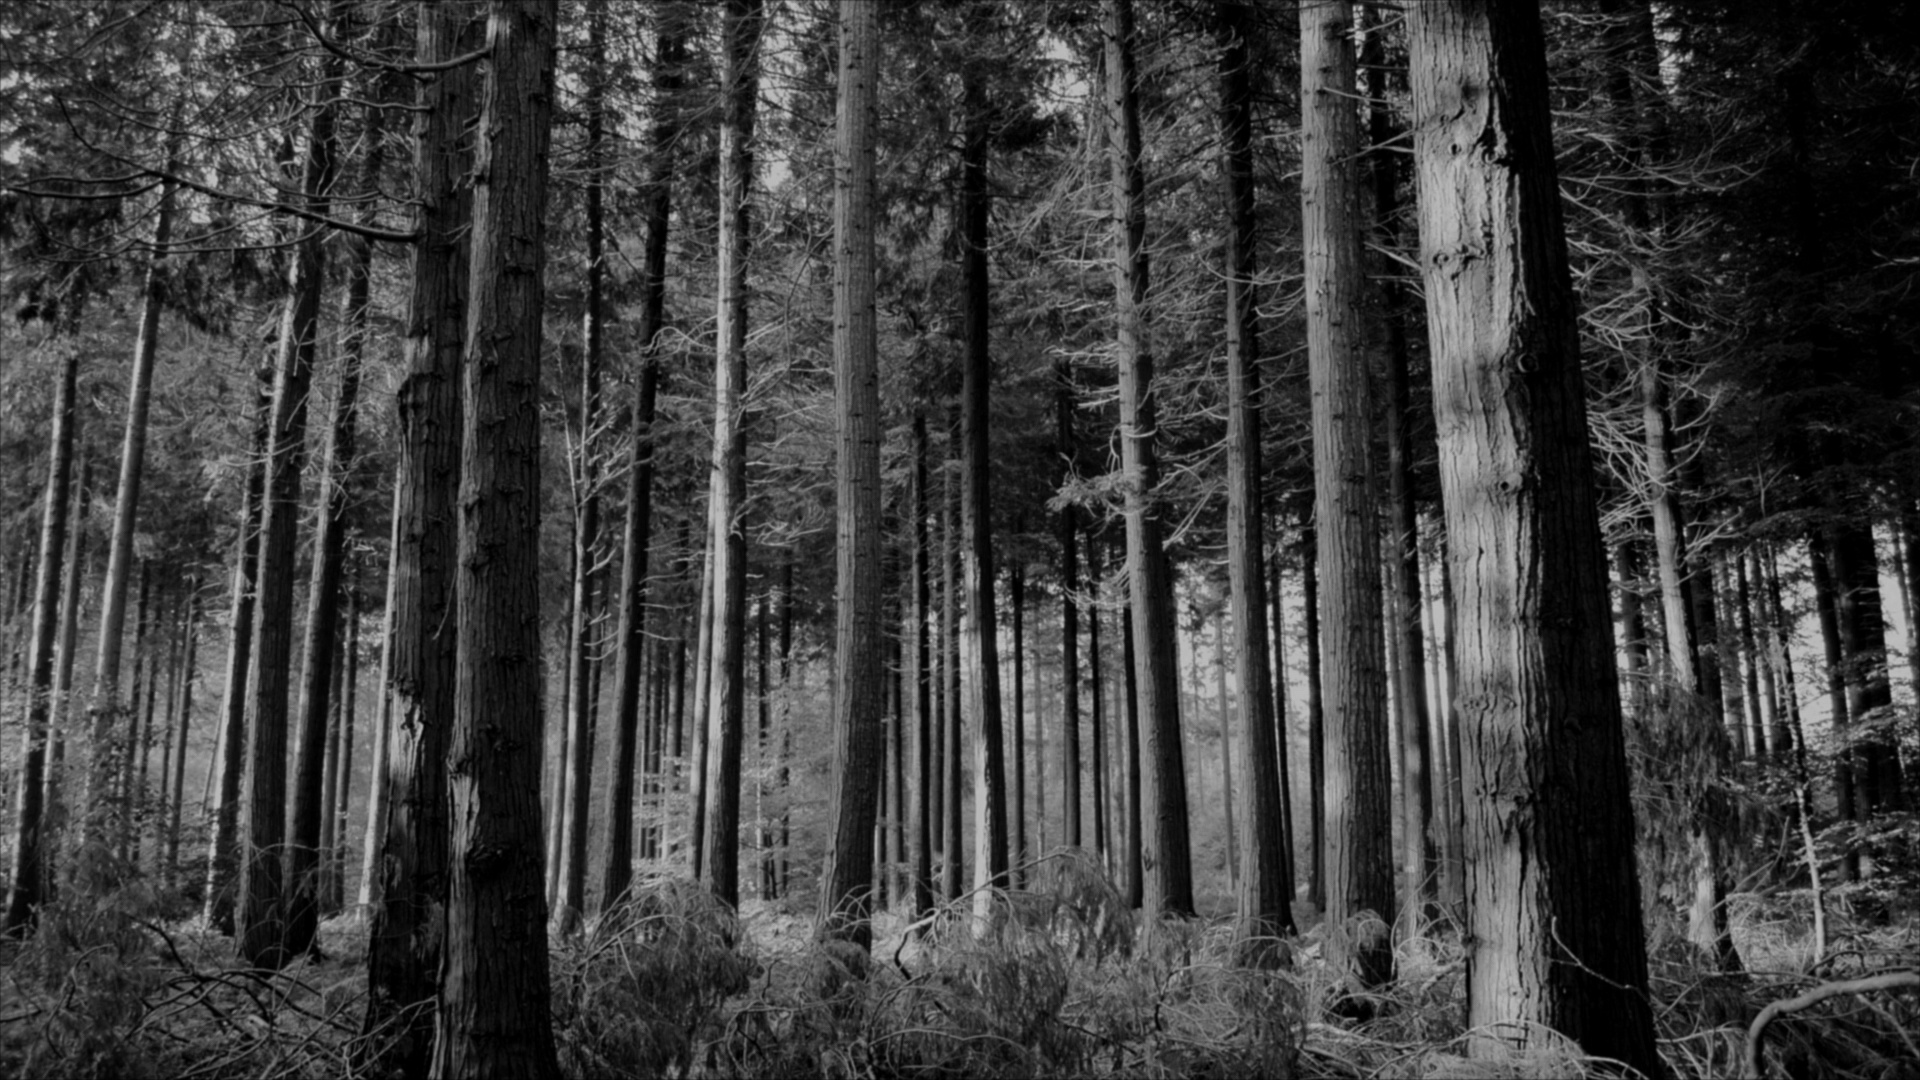
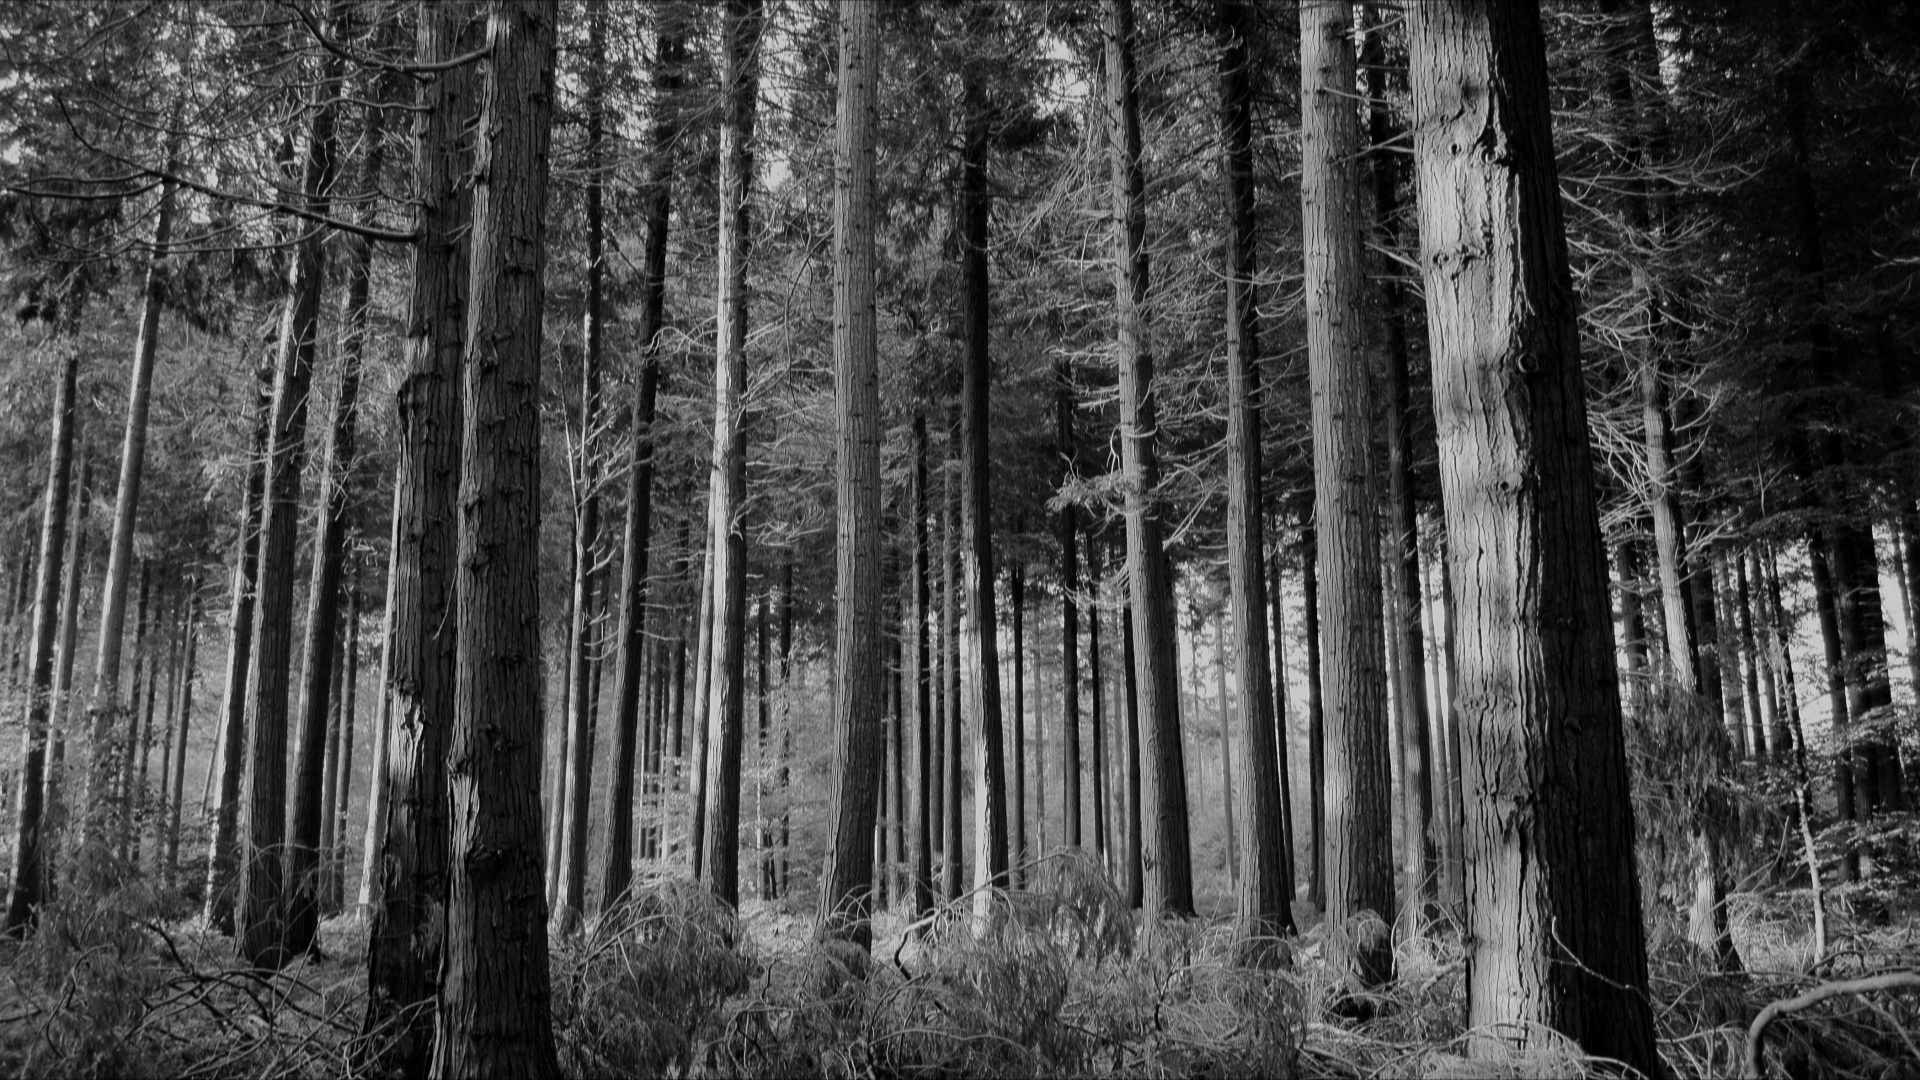
Gaussian filter, using numpy

diff --git a/main.py b/main.py
@@ -1,20 +1,41 @@
 import cv2
 import sys
 import numpy as np
+import time
 
-# preprocessed weights of gaussian kernel with sigma = 1
-filter14 = np.array([[30, 131, 216, 131, 30],
-                     [131, 586, 966, 586, 131],
-                     [216, 966, 1592, 966, 216],
-                     [131, 586, 966, 586, 131],
-                     [30, 131, 216, 131, 30]])
+# preprocessed weights of gaussian kernel with sigma = 1 and sigma = 2
+gaussian_1D_kernel_with_sigma_1 = np.asarray([30, 131, 216, 131, 30], dtype=np.uint8)
+gaussian_1D_kernel_with_sigma_2 = np.asarray([147, 213, 242, 213, 147], dtype=np.uint8)
 
-# preprocessed weights of gaussian kernel with sigma = 2
-filter24 = np.array([[147, 213, 242, 213, 147],
-                     [213, 310, 352, 310, 213],
-                     [242, 352, 398, 352, 242],
-                     [213, 310, 352, 310, 213],
-                     [147, 213, 242, 213, 147]])
+
+def gaussian_filter(image, sigma=1):
+    kernel = gaussian_1D_kernel_with_sigma_1 if sigma == 1 else gaussian_1D_kernel_with_sigma_2
+    normalizer = 0
+    for i in kernel:
+        normalizer += i
+    height, weight = image.shape[0], image.shape[1]
+
+    # horizontal blur
+    blurred_horizontal_image = np.ndarray(shape=(height, weight), dtype=np.uint8)
+    for i in range(height):
+        for j in range(weight):
+            y_min, y_max = max(0, j - 2), min(weight, j + 3)
+            new_pixel = 0
+            for ind in range(y_min, y_max):
+                new_pixel += image[i, ind] * int(kernel[ind - y_min])
+            blurred_horizontal_image[i, j] = new_pixel // normalizer
+
+    # vertical blur
+    blurred_image = np.ndarray(shape=(height, weight), dtype=np.uint8)
+    for i in range(height):
+        x_min, x_max = max(0, i - 2), min(height, i + 3)
+        for j in range(weight):
+            new_pixel = 0
+            for ind in range(x_min, x_max):
+                new_pixel += image[ind, j] * int(kernel[ind - x_min])
+            blurred_image[i, j] = new_pixel // normalizer
+
+    return blurred_image
 
 
 def main():
@@ -27,32 +48,9 @@ def main():
     except FileNotFoundError as e:
         raise e
 
-    assert image.shape == (1080, 1920), 'Wrong shape of image'
-    cv2.imwrite(f'grayscale.jpg', image)
-
-    image14, image24 = [], []
-    norm14, norm24 = np.sum(filter14), np.sum(filter24)
-
-    for i in range(1080):
-        row14, row24 = [], []
-        xmi, xma = max(0, i - 2), min(1080, i + 3)
-        for j in range(1920):
-            ymi, yma = max(0, j - 2), min(1920, j + 3)
-            sub_img = image[xmi:xma, ymi:yma]
-            if sub_img.shape == (5, 5):
-                row14.append(np.sum(np.multiply(sub_img, filter14) // norm14))
-                row24.append(np.sum(np.multiply(sub_img, filter24) // norm24))
-                continue
-            xa, xb, ya, yb = 2 - (i - xmi), 2 + (xma - i), 2 - (j - ymi), 2 + (yma - j)
-            kernel14 = filter14[xa:xb, ya:yb]
-            kernel24 = filter24[xa:xb, ya:yb]
-            row14.append(np.sum(np.multiply(sub_img, kernel14) // norm14))
-            row24.append(np.sum(np.multiply(sub_img, kernel24) // norm24))
-        image14.append(row14)
-        image24.append(row24)
-
-    cv2.imwrite('blurred1.jpg', np.asarray(image14, dtype=np.uint8))
-    cv2.imwrite('blurred2.jpg', np.asarray(image24, dtype=np.uint8))
+    cv2.imwrite('grayscale.jpg', image)
+    cv2.imwrite('blurred1.jpg', gaussian_filter(image, sigma=1))
+    cv2.imwrite('blurred2.jpg', gaussian_filter(image, sigma=2))
 
 
 if __name__ == '__main__':
